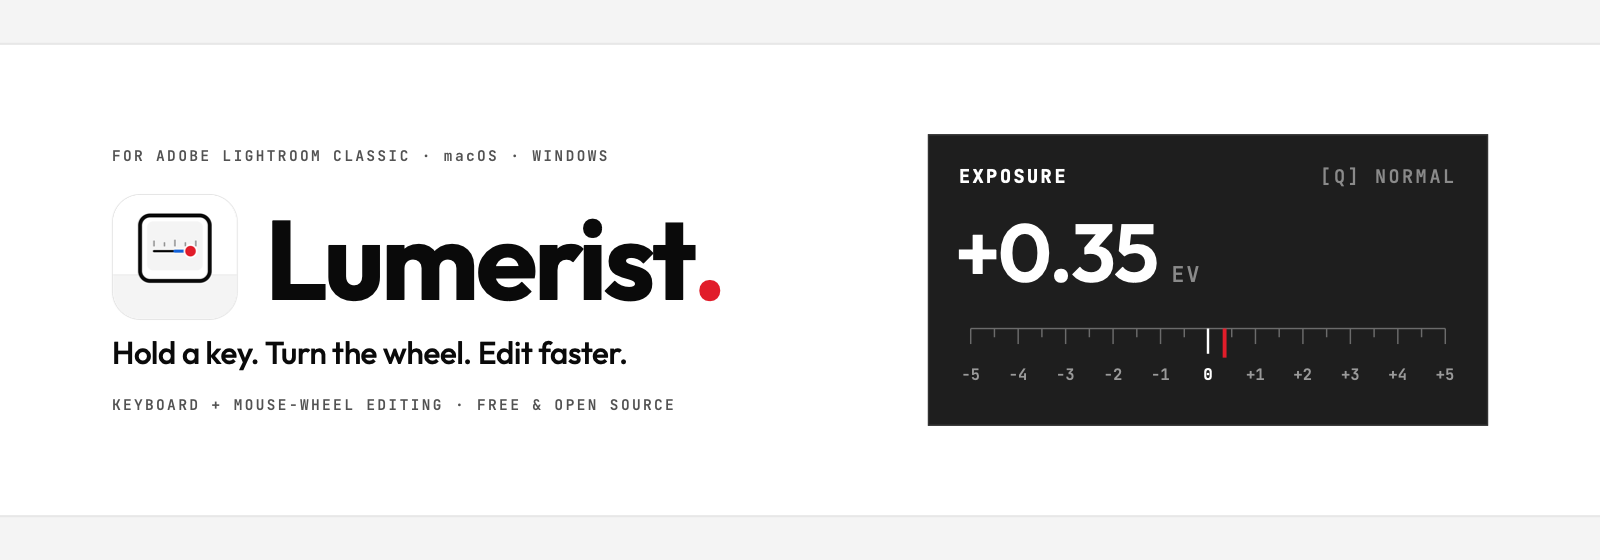
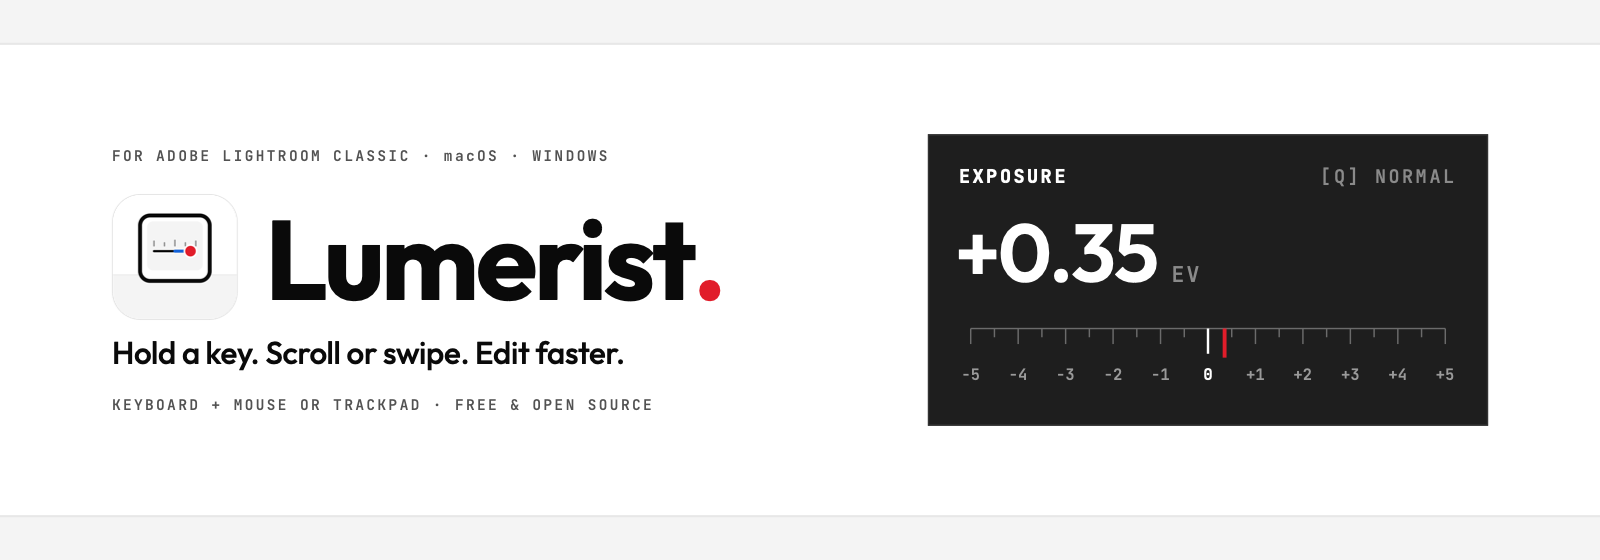
Mouse and trackpad, everywhere
Dial Keys work with a two-finger swipe as well as the mouse wheel, on the
Mac and on Windows. The README, the app strings on both platforms, the
banner and the animations now show and name both, never the mouse alone.
The tagline becomes "Hold a key. Scroll or swipe. Edit faster."

Changed region(s): [[0.1562, 0.6071, 0.4062, 0.6679], [0.1875, 0.6982, 0.4062, 0.7286]]

diff --git a/Sources/LumeristApp/OnboardingView.swift b/Sources/LumeristApp/OnboardingView.swift
@@ -74,7 +74,7 @@ struct OnboardingView: View {
         VStack(alignment: .leading, spacing: Synth.Space.l) {
             VStack(alignment: .leading, spacing: Synth.Space.xs) {
                 Text("Welcome to Lumerist").synthTitle(26).accessibilityAddTraits(.isHeader)
-                Text("Four steps, then your keyboard and mouse wheel drive Lightroom Classic's sliders.")
+                Text("Four steps, then your keyboard and your mouse or trackpad drive Lightroom Classic's sliders.")
                     .synthBody(13, color: Synth.steel)
             }
 
@@ -84,7 +84,7 @@ struct OnboardingView: View {
             step(2, title: "Open Lightroom Classic", done: store.isConnected, detail: lightroomDetail) {
                 lightroomActions
             }
-            step(3, title: "Allow keyboard and mouse access", done: accessibilityGranted, detail: accessibilityDetail) {
+            step(3, title: "Allow keyboard, mouse and trackpad access", done: accessibilityGranted, detail: accessibilityDetail) {
                 if !accessibilityGranted {
                     Button("Open System Settings") { AccessibilityPermission.request() }
                         .buttonStyle(.neonSecondary)
@@ -211,7 +211,7 @@ struct OnboardingView: View {
     private var tryDetail: String {
         if itWorks { return "It works! Every key can be changed in the Develop and Library pages." }
         if store.shortcutsAreEnabled {
-            return "In Lightroom's Develop module, hold Q and turn the mouse wheel: Exposure moves. Hold ⇧ for bigger steps."
+            return "In Lightroom's Develop module, hold Q and turn the mouse wheel or swipe on the trackpad: Exposure moves. Hold ⇧ for bigger steps."
         }
         return "Shortcuts only act while Lightroom Classic is in front; a quick tap of a key still reaches Lightroom."
     }

diff --git a/Scripts/docs-render-banner.swift b/Scripts/docs-render-banner.swift
@@ -339,20 +339,20 @@ func renderGalerist(width: Int, height: Int, to url: URL, taglineLines: [String]
 let images = root.appending(path: "docs/images")
 if CommandLine.arguments.dropFirst().first == "miami" {
     render(width: 1600, height: 560, to: images.appending(path: "banner.png"),
-           tagline: "Hold a key. Turn the wheel. Edit faster.",
-           subtitle: "KEYBOARD + MOUSE-WHEEL EDITING FOR LIGHTROOM CLASSIC, MAC AND WINDOWS",
+           tagline: "Hold a key. Scroll or swipe. Edit faster.",
+           subtitle: "KEYBOARD + MOUSE OR TRACKPAD · LIGHTROOM CLASSIC · MAC AND WINDOWS",
            wordmarkScale: 0.15, sunX: 0.76)
     render(width: 1280, height: 640, to: images.appending(path: "social-preview.png"),
-           tagline: "Hold a key. Turn the wheel. Edit faster.",
+           tagline: "Hold a key. Scroll or swipe. Edit faster.",
            subtitle: "FREE & OPEN SOURCE · LIGHTROOM CLASSIC · macOS · WINDOWS",
            wordmarkScale: 0.115, sunX: 0.82)
 } else {
     renderGalerist(width: 1600, height: 560, to: images.appending(path: "banner.png"),
-                   taglineLines: ["Hold a key. Turn the wheel. Edit faster."],
-                   subtitle: "KEYBOARD + MOUSE-WHEEL EDITING · FREE & OPEN SOURCE",
+                   taglineLines: ["Hold a key. Scroll or swipe. Edit faster."],
+                   subtitle: "KEYBOARD + MOUSE OR TRACKPAD · FREE & OPEN SOURCE",
                    wordmarkScale: 0.2, cardWidth: 560)
     renderGalerist(width: 1280, height: 640, to: images.appending(path: "social-preview.png"),
-                   taglineLines: ["Hold a key. Turn the wheel.", "Edit faster."],
+                   taglineLines: ["Hold a key. Scroll or swipe.", "Edit faster."],
                    subtitle: "FREE & OPEN SOURCE",
                    wordmarkScale: 0.17, cardWidth: 470)
 }

diff --git a/Sources/LumeristApp/Views/GeneralScreen.swift b/Sources/LumeristApp/Views/GeneralScreen.swift
@@ -186,7 +186,7 @@ private enum QuitChoice: CaseIterable, Hashable {
 }
 
 /// General → macOS permission: whether macOS allows Lumerist to read the
-/// keyboard and mouse (Accessibility), and the shortcuts switch.
+/// keyboard, mouse and trackpad (Accessibility), and the shortcuts switch.
 private struct PermissionSection: View {
     let store: CommandStore
     /// `AXIsProcessTrusted()` is not observable, so it is read again every
@@ -196,7 +196,7 @@ private struct PermissionSection: View {
     var body: some View {
         SettingsSection(title: "macOS permission", systemImage: "lock.shield") {
             SettingRow(title: "Accessibility", detail: allowed
-                       ? "macOS lets Lumerist read the keyboard, wheel and mouse while Lightroom Classic is in front."
+                       ? "macOS lets Lumerist read the keyboard, mouse and trackpad while Lightroom Classic is in front."
                        : "Switch Lumerist on in System Settings → Privacy & Security → Accessibility. On macOS 27 the list is called “Device control and data access”.") {
                 HStack(spacing: Synth.Space.s) {
                     if allowed {
@@ -232,7 +232,7 @@ private struct PermissionSection: View {
 
     private var shortcutsDetail: String {
         if store.shortcutsAreEnabled {
-            return "Your keys, wheel and mouse drive Lightroom's sliders whenever Lightroom Classic is in front."
+            return "Your keys, mouse and trackpad drive Lightroom's sliders whenever Lightroom Classic is in front."
         }
         if store.isWaitingForPermission {
             return "Waiting for macOS: shortcuts start by themselves once Accessibility is allowed."

diff --git a/Sources/LumeristApp/KeyEngineMonitor.swift b/Sources/LumeristApp/KeyEngineMonitor.swift
@@ -321,7 +321,7 @@ final class KeyEngineMonitor: @unchecked Sendable {
             case .accessibilityPermissionRequired:
                 "Enable Lumerist in System Settings → Privacy & Security → Accessibility (on macOS 27: “Device control and data access”), then try again."
             case .eventTapUnavailable:
-                "macOS could not create the keyboard and mouse monitor."
+                "macOS could not start watching the keyboard, mouse and trackpad."
             }
         }
     }

diff --git a/Windows/Lumerist.App/Guide/GuideWindow.cs b/Windows/Lumerist.App/Guide/GuideWindow.cs
@@ -140,7 +140,7 @@ internal sealed class GuideView : LiveView
         {
             if (ItWorks) return "It works! Every key can be changed in the Develop and Library pages.";
             if (controller.ShortcutsEnabled)
-                return "In Lightroom's Develop module, hold Q and turn the mouse wheel: Exposure moves. Hold Shift for bigger steps.";
+                return "In Lightroom's Develop module, hold Q and turn the mouse wheel or swipe on the trackpad: Exposure moves. Hold Shift for bigger steps.";
             return "Shortcuts only act while Lightroom Classic is in front; a quick tap of a key still reaches Lightroom.";
         }
     }
@@ -171,7 +171,7 @@ internal sealed class GuideView : LiveView
         var page = new StackPanel();
         var header = new StackPanel();
         header.Children.Add(GuideKit.Title("Welcome to Lumerist", 26));
-        var subtitle = GuideKit.Text("Three steps, then your keyboard and mouse wheel drive Lightroom Classic's sliders.", 13, nameof(ThemePalette.Steel));
+        var subtitle = GuideKit.Text("Three steps, then your keyboard and your mouse or trackpad drive Lightroom Classic's sliders.", 13, nameof(ThemePalette.Steel));
         subtitle.Margin = new Thickness(0, Theme.Space.XS, 0, 0);
         header.Children.Add(subtitle);
         Add(page, header);

diff --git a/Windows/Lumerist.App/Views/GeneralScreen.cs b/Windows/Lumerist.App/Views/GeneralScreen.cs
@@ -67,7 +67,7 @@ internal sealed class GeneralScreen(ScreenContext context) : Screen(context)
             "Windows needs no permission for this: the shortcuts just work.",
             Surfaces.SettingRow("Shortcuts",
                 on
-                    ? "Your keys, wheel and mouse drive Lightroom's sliders whenever Lightroom Classic is in front."
+                    ? "Your keys, mouse and trackpad drive Lightroom's sliders whenever Lightroom Classic is in front."
                     : "Every key goes straight to Lightroom, as if Lumerist were not there.",
                 SynthControls.Toggle(on, wanted =>
                 {

diff --git a/README.md b/README.md
@@ -1,5 +1,5 @@
 <p align="center">
-  <img src="docs/images/banner.png" alt="Lumerist — hold a key, turn the wheel, edit faster in Lightroom Classic" width="100%">
+  <img src="docs/images/banner.png" alt="Lumerist — hold a key, scroll or swipe, edit faster in Lightroom Classic" width="100%">
 </p>
 
 <p align="center">
@@ -13,12 +13,12 @@
 </p>
 
 <p align="center">
-  <b>Free, open-source keyboard + mouse-wheel editing for Adobe Lightroom Classic on the Mac and on Windows.</b><br>
-  Hold a key, turn the wheel, watch the slider move — without ever leaving the photo.
+  <b>Free, open-source editing with the keyboard and the mouse or trackpad, for Adobe Lightroom Classic on the Mac and on Windows.</b><br>
+  Hold a key, turn the mouse wheel or swipe on the trackpad, watch the slider move — without ever leaving the photo.
 </p>
 
 <p align="center">
-  <img src="docs/images/hero.gif" alt="Hold Q and turn the mouse wheel: the photo gets brighter, Lightroom's Exposure slider follows and the Value HUD shows the new value; then W does the same for Contrast" width="100%">
+  <img src="docs/images/hero.gif" alt="Hold Q and turn the mouse wheel: the photo gets brighter, Lightroom's Exposure slider follows and the Value HUD shows the new value; then hold W and swipe on the trackpad: Contrast follows the same way" width="100%">
 </p>
 
 <p align="center">
@@ -35,12 +35,13 @@
 ## Why Lumerist exists
 
 I fell in love with how fast you can edit in **Capture One**: keep one hand on
-the keyboard, the other on the mouse wheel, and the sliders follow you without
-hunting for them in a panel. When I went back to Lightroom Classic I missed
-that flow every single day — dragging tiny sliders with the pointer felt slow.
+the keyboard, the other on the mouse or the trackpad, and the sliders follow
+you without hunting for them in a panel. When I went back to Lightroom Classic
+I missed that flow every single day — dragging tiny sliders with the pointer
+felt slow.
 
 So I built Lumerist: a small app for Mac and Windows plus a Lightroom Classic
-plug-in that bring that **hold-a-key, turn-the-wheel** way of editing to
+plug-in that bring that **hold a key, then scroll or swipe** way of editing to
 Lightroom Classic. It is free, open source, and runs entirely on your computer.
 
 Lumerist is made by the creator of [Galerist](https://galerist.photo/c/lk-readme),
@@ -53,8 +54,8 @@ clients.
   <img src="docs/images/value-hud.png" alt="The Value HUD on a photo: Ruler style on Lightroom's screen (Exposure +0.35 EV) and Compact style under the pointer (Contrast +12)" width="100%">
 </p>
 
-- **Dial Keys** — hold a key and turn the mouse wheel (or swipe on a
-  trackpad, drag, or press ←/→) to move one Develop slider. Hold ⇧ for the
+- **Dial Keys** — hold a key and turn the mouse wheel or swipe on the
+  trackpad (a drag or ←/→ work too) to move one Develop slider. Hold ⇧ for the
   larger step. A quick tap still reaches Lightroom, so its own shortcuts and
   your typing keep working.
 - **Nudge Keys** — tap a key to move a slider one step down or up.
@@ -75,14 +76,15 @@ clients.
 - **Value HUD** — a small read-out of the slider, its new value, and a scale
   with big tick marks (every EV for exposure), in Ruler or Compact style, on
   Lightroom's screen or under the pointer. Drag it wherever you like it.
-- **Mouse gestures** — double-click or middle-click to reset the held slider;
-  the mouse side buttons move to the previous/next photo.
+- **Mouse and trackpad clicks** — double-click with the mouse or the trackpad
+  (or middle-click) to reset the held slider; the mouse side buttons move to
+  the previous/next photo.
 - **About 130 Develop parameters** — Basic, tone curve, HSL, B&W, colour
   grading, detail, transform, lens, effects, calibration, and local mask
   sliders. Every key, step size, and option can be changed.
 
 <p align="center">
-  <img src="docs/images/palette-masks.gif" alt="Hold the Palette key, click Radial: a radial mask appears, and Q with the wheel brightens only the inside of the mask" width="100%">
+  <img src="docs/images/palette-masks.gif" alt="Hold the Palette key, click Radial: a radial mask appears, and Q with a trackpad swipe brightens only the inside of the mask" width="100%">
 </p>
 
 <p align="center">
@@ -93,7 +95,7 @@ clients.
 ## Install in three steps
 
 <p align="center">
-  <img src="docs/images/install.png" alt="Ready in three steps: download, open Lumerist and let its guide install the Lightroom plug-in, then hold Q and turn the wheel" width="100%">
+  <img src="docs/images/install.png" alt="Ready in three steps: download, open Lumerist and let its guide install the Lightroom plug-in, then hold Q and turn the mouse wheel or swipe on the trackpad" width="100%">
 </p>
 
 ### On the Mac
@@ -104,7 +106,7 @@ clients.
    is signed and notarized by Apple, so it opens like any other Mac app.
 3. **Follow the first-run guide.** It installs the Lightroom Classic plug-in
    for you, asks you to (re)start Lightroom, and opens the right privacy pane
-   so you can allow Lumerist to read the keyboard and mouse:
+   so you can allow Lumerist to read the keyboard, mouse and trackpad:
    *System Settings → Privacy & Security → Accessibility* (on macOS 27 the
    pane is called **Device control and data access**).
 
@@ -126,7 +128,8 @@ clients.
    permission to grant on Windows. Lumerist lives in the notification area,
    next to the clock: click its icon for the menu.
 
-That's it: open a photo in Develop, hold **Q**, and turn the wheel.
+That's it: open a photo in Develop, hold **Q**, and turn the mouse wheel or
+swipe on the trackpad.
 
 Lumerist follows Lightroom Classic: the plug-in starts it in the background
 when Lightroom opens, and it quits 3 seconds after Lightroom quits (both can be
@@ -168,15 +171,15 @@ A plug-in left in Lightroom does no harm: without the app it does nothing.
 
 ## The standard layout
 
-Your left hand stays on the keys, your right hand on the mouse. If you come
-from Capture One you already know most of it: 1, 2, Q, W and A S D F are its
-default Speed Edit keys. **R** straightens, because a tap on R opens
-Lightroom's Crop tool anyway, and **T**, right next to it, zooms the crop.
-Lightroom has no Levels, so the tone curve sits where Capture One keeps them,
-dark to light from **X** to **B**.
+Your left hand stays on the keys, your right hand on the mouse or the
+trackpad. If you come from Capture One you already know most of it: 1, 2, Q, W
+and A S D F are its default Speed Edit keys. **R** straightens, because a tap
+on R opens Lightroom's Crop tool anyway, and **T**, right next to it, zooms
+the crop. Lightroom has no Levels, so the tone curve sits where Capture One
+keeps them, dark to light from **X** to **B**.
 
 <p align="center">
-  <img src="docs/images/dial-keys.gif" alt="The standard layout on the keyboard: 1 changes the white balance, A the highlights, S the shadows, and Shift with Q takes the larger Exposure step" width="100%">
+  <img src="docs/images/dial-keys.gif" alt="The standard layout on the keyboard: 1 with the mouse wheel changes the white balance, A with a trackpad swipe the highlights, S with the wheel the shadows, and Shift with Q takes the larger Exposure step on the trackpad" width="100%">
 </p>
 
 | Develop | | | | | |
@@ -219,7 +222,8 @@ key reads `A`.
 Everything can be reassigned: click a key cap in the app and press the new
 key. You can add Nudge and Command Keys, make any of them a combo (hold Tab
 while you press the key), change the step of each slider, make the larger step
-the default, reverse the wheel, and export or import your layout.
+the default, reverse the scroll direction, set the trackpad sensitivity,
+and export or import your layout.
 
 <p align="center">
   <img src="docs/images/customize.png" alt="The Keyboard view in Lumerist: click a key cap and press the new key; set the step per notch for each slider; export and import your layout" width="100%">
@@ -238,7 +242,7 @@ the default, reverse the wheel, and export or import your layout.
 ## Privacy
 
 <p align="center">
-  <img src="docs/images/privacy.png" alt="How it works: keys and wheel, Lumerist, the plug-in and Lightroom Classic all on your computer, linked by a local connection; no account, no tracking, no ads" width="100%">
+  <img src="docs/images/privacy.png" alt="How it works: keyboard, mouse and trackpad, Lumerist, the plug-in and Lightroom Classic all on your computer, linked by a local connection; no account, no tracking, no ads" width="100%">
 </p>
 
 Lumerist has no telemetry, and nothing about your photos, your catalog, or
@@ -328,15 +332,14 @@ without any warning.
 <details>
 <summary><b>My antivirus blocks or quarantines Lumerist on Windows.</b></summary>
 
-Lumerist reads the keyboard and the mouse wheel to drive Lightroom, which is
-also what malicious keyloggers do, so some antivirus programs flag it, more
-often while it is not code-signed. Lumerist never records what you type: its
-optional log holds only connection states, commands and Lightroom's answers,
-and all of its code is public in this repository. If your antivirus stops it,
-restore the file from quarantine, add an exception for
+Lumerist reads the keyboard, the mouse and the trackpad to drive Lightroom,
+which is also what malicious keyloggers do, so some antivirus programs flag
+it, more often while it is not code-signed. Lumerist never records what you
+type: its optional log holds only connection states, commands and Lightroom's
+answers, and all of its code is public in this repository. If your antivirus
+stops it, restore the file from quarantine, add an exception for
 `%LOCALAPPDATA%\Programs\Lumerist`, and please report the false positive to
-your antivirus vendor.
-</details>
+your antivirus vendor. </details>
 
 <details>
 <summary><b>On Windows, the keys do nothing in Lightroom.</b></summary>
@@ -366,7 +369,7 @@ Manager* should list Lumerist as running.
 <details>
 <summary><b>A tap on a key no longer reaches Lightroom.</b></summary>
 
-Taps are passed through when you don't turn the wheel. If a key also has a
+Taps are passed through when you don't scroll or swipe. If a key also has a
 Command Key, the tap runs that command instead — check the key in the app.
 </details>
 

diff --git a/CHANGELOG.md b/CHANGELOG.md
@@ -30,8 +30,8 @@ All notable changes to Lumerist are documented here. The format follows
 - **Value HUD** in Ruler and Compact styles with a labelled scale (every EV
   for exposure), on Lightroom's screen or under the pointer, placed by
   dragging it.
-- Mouse gestures: double-click / middle-click reset, side buttons for the
-  previous/next photo.
+- Mouse and trackpad clicks: double-click (or middle-click) resets, the mouse
+  side buttons go to the previous/next photo.
 - About 130 Develop parameters, the standard layout, a step and a larger ⇧
   step for every slider (Quick Develop uses Lightroom's own button steps), a
   Keyboard view of every module, export/import of the layout.

diff --git a/SECURITY.md b/SECURITY.md
@@ -1,6 +1,6 @@
 # Security policy
 
-Lumerist reads keyboard, scroll and mouse events (on the Mac with the
+Lumerist reads keyboard, mouse and trackpad events (on the Mac with the
 Accessibility permission you grant it) and talks to its Lightroom Classic
 plug-in over `127.0.0.1` only. If you find a way to abuse that — for example
 another process sending commands to the plug-in, events leaking outside
